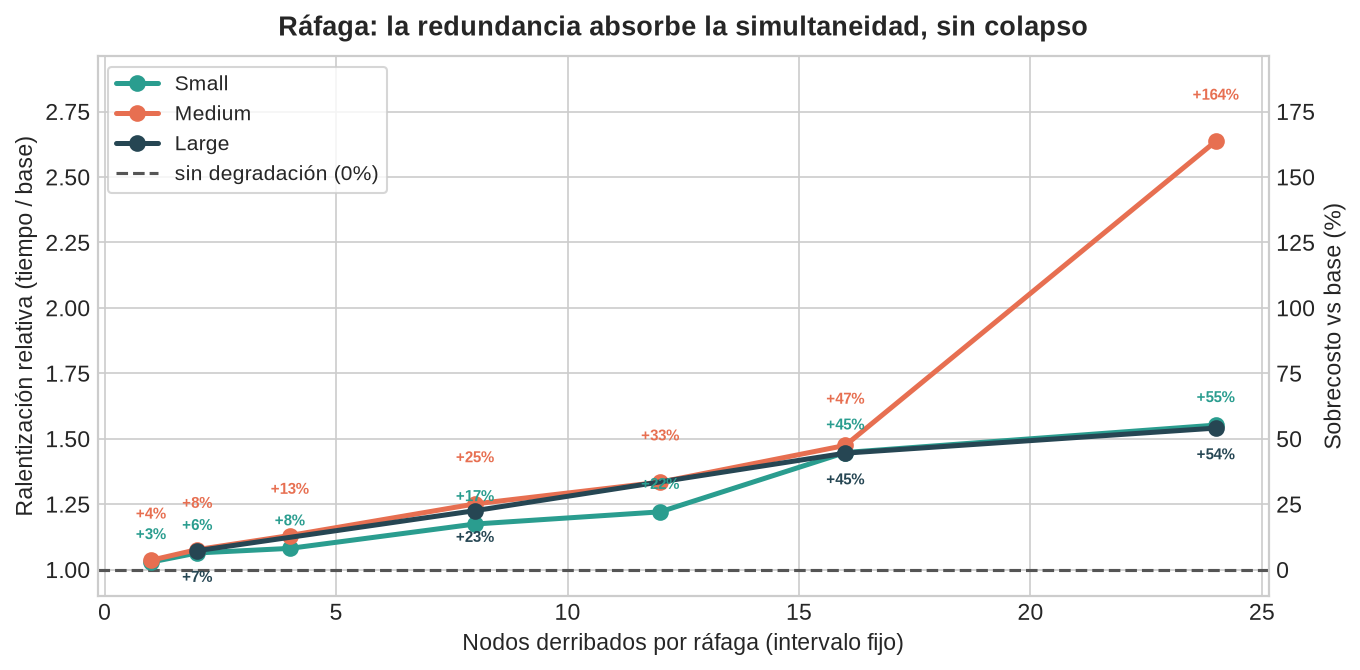
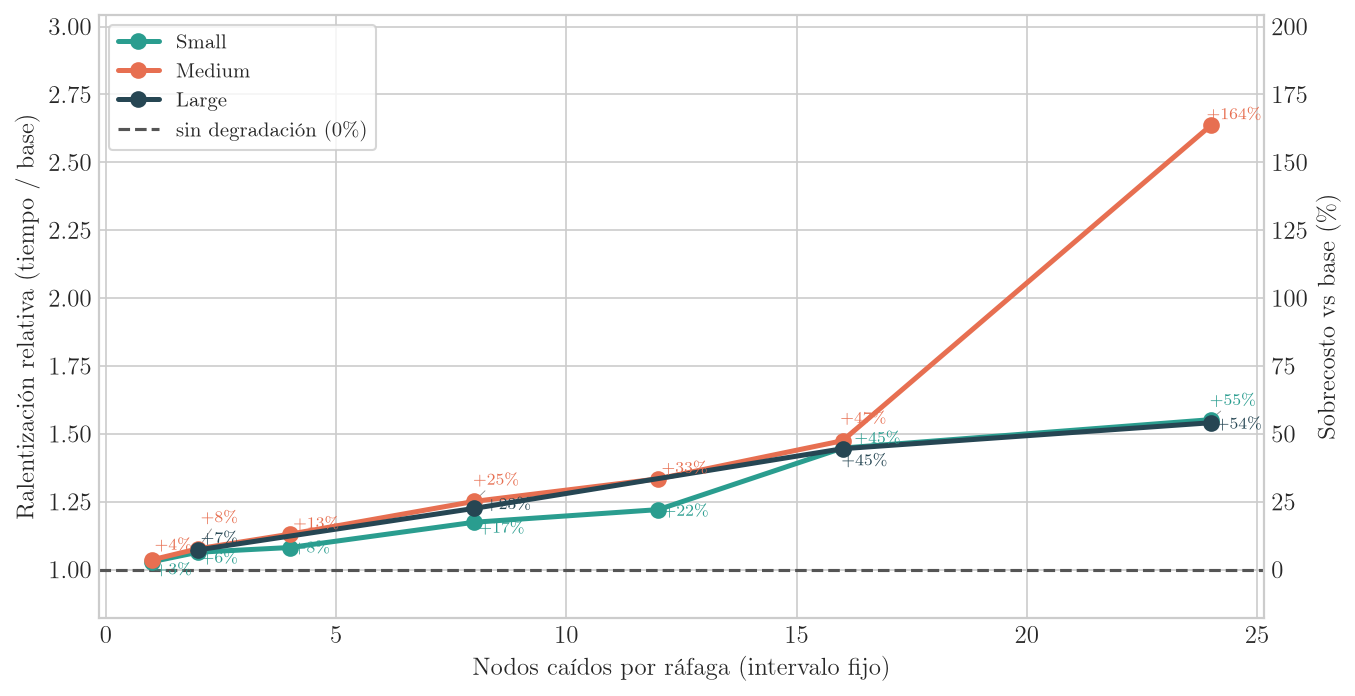
docs(informe): rehacer figuras FT-perf y conclusion del checkpoint
- 3 figuras re-renderizadas: tipografia LaTeX (Computer Modern), sin titulo
  embebido, porcentajes auto-espaciados con adjustText (sin superposiciones)
- figura checkpoint: medium c10-c4000 base+chaos; el sobrecosto del chaos
  crece al espaciar el checkpoint (casi 2x la base en c4000)
- reescribe la conclusion del checkpoint: el penalty NO es plano, crece con el
  espaciado; bajo fallos el optimo se corre a checkpoints mas frecuentes
- plot_ft_perf.py / Makefile / ft_perf_bench.py usan adjustText para las figuras

diff --git a/scripts/plot_ft_perf.py b/scripts/plot_ft_perf.py
@@ -12,7 +12,10 @@ Three figures, one stress axis each, every dataset size on the same plot:
 The two sweeps use RELATIVE slowdown (time / no-chaos base) on purpose: the dataset sizes
 span an order of magnitude, so absolute minutes don't share a single axis; normalising to
 each dataset's own baseline makes the three directly comparable. No exact values are drawn
-on the figures (the benchmark is re-run often) — the shape carries the conclusion.
+on the figures (the benchmark is re-run often) -- the shape carries the conclusion.
+
+Figures carry no embedded title: the report sets the caption. Text is typeset with LaTeX so
+the figures match the report's Computer Modern.
 
     uv run --with matplotlib --with numpy scripts/plot_ft_perf.py
 """
@@ -24,6 +27,11 @@ import matplotlib
 matplotlib.use("Agg")
 import matplotlib.pyplot as plt
 
+try:
+    from adjustText import adjust_text
+except ImportError:
+    adjust_text = None
+
 ROOT = os.path.dirname(os.path.dirname(os.path.abspath(__file__)))
 RESULTS_CSV = os.path.join(ROOT, "tmp/ft_perf/results.csv")
 OUT_DIR = os.path.join(ROOT, "doc/diagrams/v2")
@@ -32,10 +40,10 @@ TIER_LABEL = {"small": "Small", "medium": "Medium", "large": "Large"}
 TIER_COLOR = {"small": "#2a9d8f", "medium": "#e76f51", "large": "#264653"}
 
 FREQ = dict(phase="F1", xkey="chaos_interval",
-            xlabel="Cada cuántos segundos se mata una ráfaga (más a la derecha = más agresivo)",
+            xlabel=r"Cada cuántos segundos cae una ráfaga (derecha $=$ más agresivo)",
             invert_x=True)
 BURST = dict(phase="F2", xkey="kills_per_wave",
-             xlabel="Nodos derribados por ráfaga (intervalo fijo)",
+             xlabel="Nodos caídos por ráfaga (intervalo fijo)",
              invert_x=False)
 
 try:
@@ -43,11 +51,12 @@ try:
 except OSError:
     plt.style.use("ggplot")
 plt.rcParams.update({
+    "text.usetex": True,
+    "font.family": "serif",
+    "text.latex.preamble": r"\usepackage[utf8]{inputenc}\usepackage[T1]{fontenc}",
     "figure.dpi": 150,
-    "font.size": 11,
-    "axes.titlesize": 13,
-    "axes.titleweight": "bold",
-    "axes.labelsize": 11,
+    "font.size": 12,
+    "axes.labelsize": 12,
     "legend.fontsize": 10,
     "lines.linewidth": 2.4,
     "lines.markersize": 7,
@@ -96,14 +105,12 @@ def _chaos_pts(rows, sweep, tier):
     return sorted(pts, key=lambda r: _f(r[sweep["xkey"]]))
 
 
-def plot_sweep_all(rows, sweep, title, fname):
+def plot_sweep_all(rows, sweep, fname):
     """Every dataset on one relative-slowdown axis: how the stress axis degrades throughput.
     Each point is annotated with its slowdown vs base in %, colored by dataset, and a right
     axis reads the same scale directly as a percentage."""
-    fig, ax = plt.subplots(figsize=(9.2, 4.6))
-    drawn = False
-    # per-tier vertical nudge (in points) so overlapping labels in the flat zone don't pile up
-    label_dy = {"small": 11, "medium": 20, "large": -15}
+    fig, ax = plt.subplots(figsize=(9.2, 4.8))
+    series = []
     for tier in ("small", "medium", "large"):
         base = _base_secs(rows, sweep["phase"], tier)
         pts = _chaos_pts(rows, sweep, tier)
@@ -112,36 +119,52 @@ def plot_sweep_all(rows, sweep, title, fname):
         x = [_f(r[sweep["xkey"]]) for r in pts]
         y = [_f(r["total_s"]) / base for r in pts]
         ax.plot(x, y, "o-", color=TIER_COLOR[tier], label=TIER_LABEL[tier], zorder=3)
-        for xi, yi in zip(x, y):
-            ax.annotate(f"+{(yi - 1.0) * 100:.0f}%", (xi, yi),
-                        textcoords="offset points", xytext=(0, label_dy[tier]),
-                        ha="center", fontsize=7, fontweight="bold",
-                        color=TIER_COLOR[tier], zorder=4)
-        drawn = True
-    if not drawn:
+        series.append((tier, x, y))
+    if not series:
         return
-    ax.axhline(1.0, ls="--", color="#555", lw=1.5, label="sin degradación (0%)")
+
+    ax.axhline(1.0, ls="--", color="#555", lw=1.5, label=r"sin degradación ($0\%$)")
     if sweep["invert_x"]:
         ax.invert_xaxis()
-    ax.set_ylim(bottom=0.9)
-    ax.set_ylim(top=ax.get_ylim()[1] * 1.09)  # headroom for the top "+X%" label
+    ax.set_ylim(bottom=0.82)
+    ax.set_ylim(top=ax.get_ylim()[1] * 1.12)  # headroom for the top label
+
+    # label each point with its slowdown; adjustText repositions every label so none overlap
+    # (with thin leader lines when it pulls one away), falling back to a per-column height-rank
+    # stack if the library is absent.
+    if adjust_text is not None:
+        texts = [ax.text(xi, yi, rf"$+{(yi - 1.0) * 100:.0f}\%$", fontsize=8,
+                         color=TIER_COLOR[tier], zorder=5)
+                 for tier, x, y in series for xi, yi in zip(x, y)]
+        adjust_text(texts, ax=ax,
+                    arrowprops=dict(arrowstyle="-", color="0.55", lw=0.4))
+    else:
+        from collections import defaultdict
+        column = defaultdict(list)
+        for tier, x, y in series:
+            for xi, yi in zip(x, y):
+                column[xi].append((yi, tier))
+        offsets = [8, 19, 30]
+        for xi, pts in column.items():
+            for rank, (yi, tier) in enumerate(sorted(pts)):
+                ax.annotate(rf"$+{(yi - 1.0) * 100:.0f}\%$", (xi, yi),
+                            textcoords="offset points", xytext=(0, offsets[min(rank, 2)]),
+                            ha="center", fontsize=8, color=TIER_COLOR[tier], zorder=4)
+
     ax.set_xlabel(sweep["xlabel"])
-    ax.set_ylabel("Ralentización relativa (tiempo / base)")
-    ax.set_title(title, pad=10)
+    ax.set_ylabel(r"Ralentización relativa (tiempo $/$ base)")
     ax.legend(loc="upper left", frameon=True)
-    # right axis: the same scale read directly as "% de sobrecosto vs la corrida base"
     ax2 = ax.twinx()
     lo, hi = ax.get_ylim()
     ax2.set_ylim((lo - 1.0) * 100, (hi - 1.0) * 100)
-    ax2.set_ylabel("Sobrecosto vs base (%)")
+    ax2.set_ylabel(r"Sobrecosto vs base ($\%$)")
     ax2.grid(False)
     _save(fig, fname)
 
 
 def plot_checkpoint(rows):
     """Single tier (the checkpoint cadence is dataset-agnostic): total time vs checkpoint_every,
-    no-chaos vs chaos. Shows the U — frequent checkpoints pay I/O, sparse ones pay reprocessing —
-    and that failures tilt the balance toward more frequent checkpoints."""
+    no-chaos vs chaos. The chaos curve stops where recovery stops converging -- the cliff."""
     tier = "medium"
     f3 = [r for r in rows if r.get("phase") == "F3" and r["tier"] == tier]
     if not f3:
@@ -155,18 +178,25 @@ def plot_checkpoint(rows):
     if not xs:
         return
 
-    fig, ax = plt.subplots(figsize=(8.4, 4.2))
-    if any(c in no_ch for c in xs):
-        ax.plot([c for c in xs if c in no_ch], [no_ch[c] for c in xs if c in no_ch],
-                "o-", color="#2a9d8f", label="sin chaos")
-    if any(c in ch for c in xs):
-        ax.plot([c for c in xs if c in ch], [ch[c] for c in xs if c in ch],
-                "s-", color="#e76f51", label="con chaos")
+    fig, ax = plt.subplots(figsize=(8.4, 4.4))
+    base_x = [c for c in xs if c in no_ch]
+    chaos_x = [c for c in xs if c in ch]
+    if base_x:
+        ax.plot(base_x, [no_ch[c] for c in base_x], "o-", color="#2a9d8f", label="sin chaos")
+    if chaos_x:
+        ax.plot(chaos_x, [ch[c] for c in chaos_x], "s-", color="#e76f51", label="con chaos")
+        # mark the cliff: the first checkpoint where chaos no longer completes
+        last_ch = max(chaos_x)
+        beyond = [c for c in base_x if c > last_ch]
+        if beyond:
+            ax.axvline(min(beyond), ls=":", color="#9b2226", lw=1.6, zorder=1)
+            ax.annotate(r"el recovery deja de converger",
+                        (min(beyond), ax.get_ylim()[1]), xytext=(-6, -8),
+                        textcoords="offset points", ha="right", va="top",
+                        fontsize=9, color="#9b2226")
     ax.set_xscale("log")
-    ax.set_xlabel("checkpoint_every (mensajes entre checkpoints, escala log)")
+    ax.set_xlabel(r"\texttt{checkpoint\_every} (mensajes entre checkpoints, escala log)")
     ax.set_ylabel("Tiempo total (min)")
-    ax.set_title("Checkpoint: hay un óptimo amplio; bajo chaos la curva apenas se mueve",
-                 pad=10)
     ax.set_ylim(bottom=0)
     ax.legend(loc="best", frameon=True)
     _save(fig, "ft_perf_checkpoint.png")
@@ -175,14 +205,10 @@ def plot_checkpoint(rows):
 def main():
     rows = load()
     if not rows:
-        print("no results.csv yet — nothing to plot")
+        print("no results.csv yet -- nothing to plot")
         return
-    plot_sweep_all(rows, FREQ,
-                   "Frecuencia: el costo se concentra solo en el régimen más agresivo",
-                   "ft_perf_frequency.png")
-    plot_sweep_all(rows, BURST,
-                   "Ráfaga: la redundancia absorbe la simultaneidad, sin colapso",
-                   "ft_perf_burst.png")
+    plot_sweep_all(rows, FREQ, "ft_perf_frequency.png")
+    plot_sweep_all(rows, BURST, "ft_perf_burst.png")
     plot_checkpoint(rows)
     print("done")
 

diff --git a/doc/informe/src/informe.tex b/doc/informe/src/informe.tex
@@ -1064,37 +1064,30 @@ en el rango observado.
 La frecuencia de \textit{checkpoint} traza una curva en \textbf{U}
 con dos costos en tensión.
 \textit{Checkpointear} muy seguido está dominado por el costo de I/O;
-espaciar mucho abarata
-ese I/O pero, en principio, encarece cada recuperación, porque hay
-más trabajo para reprocesar
-por caída. El óptimo resulta \textbf{amplio y plano} (una meseta, no
-un punto delicado de
-calibrar).
+espaciar mucho lo abarata, pero encarece cada recuperación, porque ante
+una caída hay más mensajes para reprocesar. Sin fallos el óptimo es
+\textbf{amplio}: la curva \emph{sin chaos} se aplana en una meseta entre
+unos cientos y unos miles de mensajes por checkpoint.
 
-En el rango probado, sin embargo, la curva \emph{con chaos} se
-mantiene \textbf{casi superpuesta}
-a la \emph{sin chaos}: el sobrecosto de los fallos es pequeño y se
-concentra en el extremo
-\textbf{frecuente} (donde el I/O ya es alto), no en el espaciado. El
-efecto teórico de que
-``espaciar encarece la recuperación'' no llega a observarse aquí,
-porque reprocesar hasta unos
-miles de mensajes por caída sigue siendo barato frente al tiempo
-total de la corrida.
-Conceptualmente la cadencia es un balance entre I/O y reproceso, pero
-con la intensidad de
-fallos evaluada ese balance \textbf{no se desplaza de forma
-apreciable}: el óptimo puede
-calibrarse para el caso normal sin una penalización relevante bajo fallos.
+Bajo fallos, en cambio, ese balance \textbf{se desplaza}. En la zona
+frecuente y en el centro de la meseta la curva \emph{con chaos} corre casi
+pegada a la \emph{sin chaos} (un sobrecosto del orden del 5 al 25\%), pero al
+espaciar el checkpoint el sobrecosto \textbf{crece de forma marcada}: en el
+punto más espaciado evaluado el chaos casi \textbf{duplica} el tiempo de la
+corrida base. Es el efecto teórico de que ``espaciar encarece la
+recuperación'' volviéndose visible: cuanto más raro es el checkpoint, más
+mensajes debe reprocesar un nodo revivido tras una caída, y ese reproceso
+pasa a dominar. La consecuencia práctica es que, bajo fallos, conviene un
+checkpoint \textbf{más frecuente} que el óptimo del caso normal, para mantener
+acotado el costo de recuperación.
 
 \begin{figure}[H]
     \centering
     \includegraphics[width=0.85\textwidth]{../diagrams/v2/ft_perf_checkpoint.png}\\[0.5cm]
-    \caption{Costo del \texttt{CHECKPOINT\_EVERY} (escala log): curva
-        en U con óptimo amplio.
-        Bajo el chaos probado la curva apenas se mueve; el sobrecosto
-        se concentra en el extremo
-    frecuente (I/O), no en el espaciado.}
+    \caption{Costo del \texttt{CHECKPOINT\_EVERY} (escala log): curva en U.
+        Sin chaos el óptimo es amplio; bajo chaos el sobrecosto es chico en la
+        zona frecuente y media, pero crece al espaciar el checkpoint, casi
+        duplicando el tiempo en el punto más espaciado evaluado.}
 \end{figure}
 
 \newpage

diff --git a/scripts/ft_perf_bench.py b/scripts/ft_perf_bench.py
@@ -432,7 +432,7 @@ def phase_F3():
 
 def maybe_plot():
     log("regenerating figures ...")
-    r = run("uv run --with matplotlib --with numpy scripts/plot_ft_perf.py", capture=True)
+    r = run("uv run --with matplotlib --with numpy --with adjustText scripts/plot_ft_perf.py", capture=True)
     log(("figures OK" if r.returncode == 0 else f"plot failed: {r.stdout[-400:]}"))
 
 